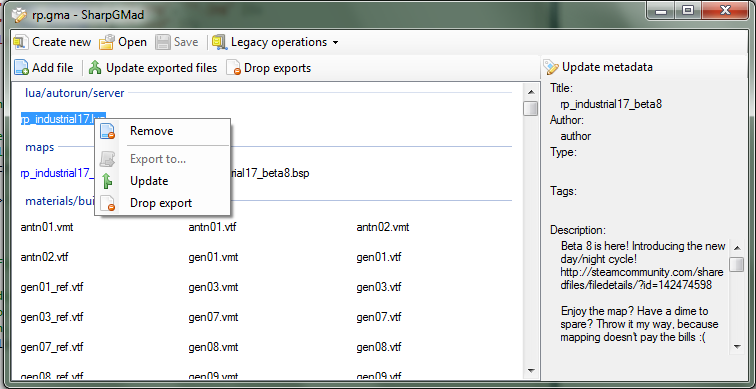
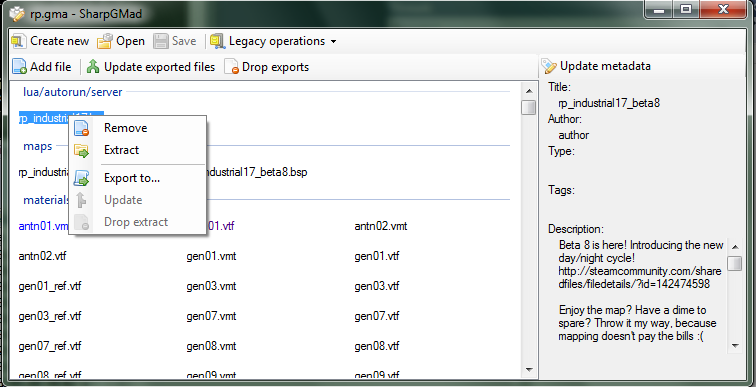
Added file extract (save to local disk but no watcher setup)

diff --git a/SharpGMad/Main.Designer.cs b/SharpGMad/Main.Designer.cs
@@ -63,14 +63,15 @@
             this.tsmiLegacyCreate = new System.Windows.Forms.ToolStripMenuItem();
             this.tsmiLegacyExtract = new System.Windows.Forms.ToolStripMenuItem();
             this.ofdAddFile = new System.Windows.Forms.OpenFileDialog();
-            this.cmsFileEntry = new System.Windows.Forms.ContextMenuStrip(this.components);
+            this.sfdAddon = new System.Windows.Forms.SaveFileDialog();
+            this.sfdExportFile = new System.Windows.Forms.SaveFileDialog();
             this.tsmFileRemove = new System.Windows.Forms.ToolStripMenuItem();
             this.tssExportSeparator = new System.Windows.Forms.ToolStripSeparator();
             this.tsmFileExportTo = new System.Windows.Forms.ToolStripMenuItem();
             this.tsmFilePull = new System.Windows.Forms.ToolStripMenuItem();
             this.tsmFileDropExport = new System.Windows.Forms.ToolStripMenuItem();
-            this.sfdAddon = new System.Windows.Forms.SaveFileDialog();
-            this.sfdExportFile = new System.Windows.Forms.SaveFileDialog();
+            this.cmsFileEntry = new System.Windows.Forms.ContextMenuStrip(this.components);
+            this.tsmFileExtract = new System.Windows.Forms.ToolStripMenuItem();
             this.tsFileOperations.SuspendLayout();
             this.pnlLeftSide.SuspendLayout();
             this.pnlFilelist.SuspendLayout();
@@ -410,57 +411,6 @@
             // 
             this.ofdAddFile.Title = "Add file";
             // 
-            // cmsFileEntry
-            // 
-            this.cmsFileEntry.Items.AddRange(new System.Windows.Forms.ToolStripItem[] {
-            this.tsmFileRemove,
-            this.tssExportSeparator,
-            this.tsmFileExportTo,
-            this.tsmFilePull,
-            this.tsmFileDropExport});
-            this.cmsFileEntry.Name = "cmsFileEntry";
-            this.cmsFileEntry.Size = new System.Drawing.Size(137, 98);
-            // 
-            // tsmFileRemove
-            // 
-            this.tsmFileRemove.Image = global::SharpGMad.Properties.Resources.remove;
-            this.tsmFileRemove.Name = "tsmFileRemove";
-            this.tsmFileRemove.Size = new System.Drawing.Size(136, 22);
-            this.tsmFileRemove.Text = "Remove";
-            this.tsmFileRemove.Click += new System.EventHandler(this.tsmFileRemove_Click);
-            // 
-            // tssExportSeparator
-            // 
-            this.tssExportSeparator.Name = "tssExportSeparator";
-            this.tssExportSeparator.Size = new System.Drawing.Size(133, 6);
-            // 
-            // tsmFileExportTo
-            // 
-            this.tsmFileExportTo.Enabled = false;
-            this.tsmFileExportTo.Image = global::SharpGMad.Properties.Resources.export;
-            this.tsmFileExportTo.Name = "tsmFileExportTo";
-            this.tsmFileExportTo.Size = new System.Drawing.Size(136, 22);
-            this.tsmFileExportTo.Text = "Export to...";
-            this.tsmFileExportTo.Click += new System.EventHandler(this.tsmFileExportTo_Click);
-            // 
-            // tsmFilePull
-            // 
-            this.tsmFilePull.Enabled = false;
-            this.tsmFilePull.Image = global::SharpGMad.Properties.Resources.pull;
-            this.tsmFilePull.Name = "tsmFilePull";
-            this.tsmFilePull.Size = new System.Drawing.Size(136, 22);
-            this.tsmFilePull.Text = "Update";
-            this.tsmFilePull.Click += new System.EventHandler(this.tsmFilePull_Click);
-            // 
-            // tsmFileDropExport
-            // 
-            this.tsmFileDropExport.Enabled = false;
-            this.tsmFileDropExport.Image = global::SharpGMad.Properties.Resources.drop;
-            this.tsmFileDropExport.Name = "tsmFileDropExport";
-            this.tsmFileDropExport.Size = new System.Drawing.Size(136, 22);
-            this.tsmFileDropExport.Text = "Drop export";
-            this.tsmFileDropExport.Click += new System.EventHandler(this.tsmFileDropExport_Click);
-            // 
             // sfdAddon
             // 
             this.sfdAddon.DefaultExt = "gma";
@@ -470,6 +420,72 @@
             // sfdExportFile
             // 
             this.sfdExportFile.Filter = "All files|*.*";
+            // 
+            // tsmFileRemove
+            // 
+            this.tsmFileRemove.Image = global::SharpGMad.Properties.Resources.remove;
+            this.tsmFileRemove.Name = "tsmFileRemove";
+            this.tsmFileRemove.Size = new System.Drawing.Size(138, 22);
+            this.tsmFileRemove.Text = "Remove";
+            this.tsmFileRemove.Click += new System.EventHandler(this.tsmFileRemove_Click);
+            // 
+            // tssExportSeparator
+            // 
+            this.tssExportSeparator.Name = "tssExportSeparator";
+            this.tssExportSeparator.Size = new System.Drawing.Size(135, 6);
+            // 
+            // tsmFileExportTo
+            // 
+            this.tsmFileExportTo.Enabled = false;
+            this.tsmFileExportTo.Image = global::SharpGMad.Properties.Resources.export;
+            this.tsmFileExportTo.Name = "tsmFileExportTo";
+            this.tsmFileExportTo.Size = new System.Drawing.Size(138, 22);
+            this.tsmFileExportTo.Text = "Export to...";
+            this.tsmFileExportTo.ToolTipText = "Export the selected file to somewhere on your computer and set up a realtime chan" +
+    "ge-watch. Changed files will be purple.";
+            this.tsmFileExportTo.Click += new System.EventHandler(this.tsmFileExportTo_Click);
+            // 
+            // tsmFilePull
+            // 
+            this.tsmFilePull.Enabled = false;
+            this.tsmFilePull.Image = global::SharpGMad.Properties.Resources.pull;
+            this.tsmFilePull.Name = "tsmFilePull";
+            this.tsmFilePull.Size = new System.Drawing.Size(138, 22);
+            this.tsmFilePull.Text = "Update";
+            this.tsmFilePull.ToolTipText = "Update this file with the changes from the exported file on your computer";
+            this.tsmFilePull.Click += new System.EventHandler(this.tsmFilePull_Click);
+            // 
+            // tsmFileDropExport
+            // 
+            this.tsmFileDropExport.Enabled = false;
+            this.tsmFileDropExport.Image = global::SharpGMad.Properties.Resources.drop;
+            this.tsmFileDropExport.Name = "tsmFileDropExport";
+            this.tsmFileDropExport.Size = new System.Drawing.Size(138, 22);
+            this.tsmFileDropExport.Text = "Drop extract";
+            this.tsmFileDropExport.ToolTipText = "Delete the exported file from your computer";
+            this.tsmFileDropExport.Click += new System.EventHandler(this.tsmFileDropExport_Click);
+            // 
+            // cmsFileEntry
+            // 
+            this.cmsFileEntry.Items.AddRange(new System.Windows.Forms.ToolStripItem[] {
+            this.tsmFileRemove,
+            this.tsmFileExtract,
+            this.tssExportSeparator,
+            this.tsmFileExportTo,
+            this.tsmFilePull,
+            this.tsmFileDropExport});
+            this.cmsFileEntry.Name = "cmsFileEntry";
+            this.cmsFileEntry.Size = new System.Drawing.Size(139, 120);
+            // 
+            // tsmFileExtract
+            // 
+            this.tsmFileExtract.Enabled = false;
+            this.tsmFileExtract.Image = global::SharpGMad.Properties.Resources.extract;
+            this.tsmFileExtract.Name = "tsmFileExtract";
+            this.tsmFileExtract.Size = new System.Drawing.Size(138, 22);
+            this.tsmFileExtract.Text = "Extract";
+            this.tsmFileExtract.ToolTipText = "Save the selected file somewhere on your computer";
+            this.tsmFileExtract.Click += new System.EventHandler(this.tsmFileExtract_Click);
             // 
             // Main
             // 
@@ -535,17 +551,18 @@
         private System.Windows.Forms.ToolStrip tsMetadata;
         private System.Windows.Forms.ToolStripButton tsbUpdateMetadata;
         private System.Windows.Forms.OpenFileDialog ofdAddFile;
-        private System.Windows.Forms.ContextMenuStrip cmsFileEntry;
-        private System.Windows.Forms.ToolStripMenuItem tsmFileRemove;
         private System.Windows.Forms.SaveFileDialog sfdAddon;
         private System.Windows.Forms.ToolStripButton tsbPullAll;
+        private System.Windows.Forms.SaveFileDialog sfdExportFile;
+        private System.Windows.Forms.ToolStripSeparator tssExportHeaderSeparator;
+        private System.Windows.Forms.ToolStripButton tsbDropAll;
+        private System.Windows.Forms.ToolStripMenuItem tsmFileRemove;
         private System.Windows.Forms.ToolStripSeparator tssExportSeparator;
         private System.Windows.Forms.ToolStripMenuItem tsmFileExportTo;
         private System.Windows.Forms.ToolStripMenuItem tsmFilePull;
         private System.Windows.Forms.ToolStripMenuItem tsmFileDropExport;
-        private System.Windows.Forms.SaveFileDialog sfdExportFile;
-        private System.Windows.Forms.ToolStripSeparator tssExportHeaderSeparator;
-        private System.Windows.Forms.ToolStripButton tsbDropAll;
+        private System.Windows.Forms.ContextMenuStrip cmsFileEntry;
+        private System.Windows.Forms.ToolStripMenuItem tsmFileExtract;
 
 
 

diff --git a/SharpGMad/RealtimeCommandline.cs b/SharpGMad/RealtimeCommandline.cs
@@ -172,6 +172,30 @@ namespace SharpGMad
                         }
 
                         break;
+                    case "extract":
+                        string extractPath = String.Empty;
+                        try
+                        {
+                            extractPath = command[2];
+                        }
+                        catch (IndexOutOfRangeException)
+                        {
+                            // Noop.
+                        }
+
+                        try
+                        {
+                            ExtractFile(command[1], extractPath);
+                        }
+                        catch (IndexOutOfRangeException)
+                        {
+                            Console.ForegroundColor = ConsoleColor.Red;
+                            Console.WriteLine("The filename was not specified.");
+                            Console.ResetColor();
+                            break;
+                        }
+
+                        break;
                     case "export":
                         string exportPath = String.Empty;
                         try
@@ -478,6 +502,7 @@ namespace SharpGMad
                             Console.WriteLine("addfolder <folder>         Adds all files from <folder> to the archive");
                             Console.WriteLine("list                       Lists the files in the memory");
                             Console.WriteLine("remove <filename>          Removes <filename> from the archive");
+                            Console.WriteLine("extract <filename> [path]  Extract <filename> (to [path] if specified)");
                             Console.WriteLine("export                     View the list of exported files");
                             Console.WriteLine("export <filename> [path]   Export <filename> for editing (to [path] if specified)");
                             Console.WriteLine("pull                       Pull changes from all exported files");
@@ -1002,6 +1027,74 @@ namespace SharpGMad
                 Console.ResetColor();
                 return;
             }
+        }
+
+        /// <summary>
+        /// Extract a file from the addon to a specified path on the local file system.
+        /// Unlike ExportFile(), this does not set up a watch.
+        /// </summary>
+        /// <param name="filename">The path of the file in the addon to be exported.</param>
+        /// <param name="extractPath">Optional. The path on the local file system where the file should be saved.
+        /// If omitted, the file will be exported to the current working directory.</param>
+        static void ExtractFile(string filename, string extractPath = null)
+        {
+            if (addon == null)
+            {
+                Console.ForegroundColor = ConsoleColor.Red;
+                Console.WriteLine("No addon is open.");
+                Console.ResetColor();
+                return;
+            }
+
+            IEnumerable<ContentFile> file = addon.Files.Where(f => f.Path == filename);
+
+            if (file.Count() == 0)
+            {
+                Console.ForegroundColor = ConsoleColor.Red;
+                Console.WriteLine("The specified file does not exist in the archive.");
+                Console.ResetColor();
+                return;
+            }
+
+            if (extractPath == null || extractPath == String.Empty)
+            {
+                extractPath = Directory.GetCurrentDirectory() + Path.DirectorySeparatorChar + Path.GetFileName(filename);
+            }
+            else
+            {
+                extractPath = Directory.GetCurrentDirectory() + Path.DirectorySeparatorChar + Path.GetFileName(extractPath);
+            }
+
+            if (File.Exists(extractPath))
+            {
+                Console.ForegroundColor = ConsoleColor.Red;
+                Console.WriteLine("A file at " + extractPath + " already exists. Aborting extraction!");
+                Console.ResetColor();
+                return;
+            }
+
+            FileStream extract;
+            try
+            {
+                extract = new FileStream(extractPath, FileMode.OpenOrCreate, FileAccess.ReadWrite, FileShare.ReadWrite);
+            }
+            catch (Exception e)
+            {
+                Console.ForegroundColor = ConsoleColor.Red;
+                Console.WriteLine("There was a problem exporting the file.");
+                Console.ResetColor();
+                Console.WriteLine(e.Message);
+                return;
+            }
+            extract.SetLength(0); // Truncate the file.
+            extract.Write(file.First().Content, 0, (int)file.First().Size);
+            extract.Flush();
+
+            Console.ForegroundColor = ConsoleColor.Green;
+            Console.WriteLine("Written " + ((int)extract.Length).HumanReadableSize() + " to " + extractPath + ".");
+            Console.ResetColor();
+
+            extract.Dispose();
         }
 
         /// <summary>

diff --git a/SharpGMad/Main.cs b/SharpGMad/Main.cs
@@ -360,10 +360,12 @@ namespace SharpGMad
                 tsmFileExportTo.Enabled = false;
                 tsmFilePull.Enabled = false;
                 tsmFileDropExport.Enabled = false;
+                tsmFileExtract.Enabled = false;
             }
             else
             {
                 tsmFileRemove.Enabled = true;
+                tsmFileExtract.Enabled = true;
 
                 IEnumerable<FileWatch> isExported = watches.Where(f => f.ContentPath ==
                     lstFiles.FocusedItem.Group.Header + "/" + lstFiles.FocusedItem.Text);
@@ -538,7 +540,7 @@ namespace SharpGMad
                 IEnumerable<FileWatch> isExported = watches.Where(f => f.ContentPath == contentPath);
                 if (isExported.Count() != 0)
                 {
-                    MessageBox.Show("This file is already exported. Drop the export first!", "Export file",
+                    MessageBox.Show("This file is already exported. Drop the extract first!", "Export file",
                         MessageBoxButtons.OK, MessageBoxIcon.Stop);
                     return;
                 }
@@ -674,7 +676,7 @@ namespace SharpGMad
 
                 if (search.Count() == 0)
                 {
-                    MessageBox.Show("This file is not exported!", "Drop export",
+                    MessageBox.Show("This file is not exported!", "Drop extract",
                         MessageBoxButtons.OK, MessageBoxIcon.Stop);
                     return;
                 }
@@ -688,7 +690,7 @@ namespace SharpGMad
                 catch (Exception ex)
                 {
                     MessageBox.Show("Failed to delete the exported file:" +
-                        "\n" + search.First().FilePath + ".\n\n" + ex.Message, "Drop export",
+                        "\n" + search.First().FilePath + ".\n\n" + ex.Message, "Drop extract",
                         MessageBoxButtons.OK, MessageBoxIcon.Exclamation);
                 }
 
@@ -810,6 +812,45 @@ namespace SharpGMad
             SetModified(true);
 
             UpdateFileList();
+        }
+
+        private void tsmFileExtract_Click(object sender, EventArgs e)
+        {
+            if (lstFiles.FocusedItem != null)
+            {
+                string contentPath = lstFiles.FocusedItem.Group.Header + "/" + lstFiles.FocusedItem.Text;
+
+                sfdExportFile.FileName = Path.GetFileName(lstFiles.FocusedItem.Text);
+                sfdExportFile.DefaultExt = Path.GetExtension(lstFiles.FocusedItem.Text);
+                sfdExportFile.Title = "Extract " + Path.GetFileName(lstFiles.FocusedItem.Text) + " to...";
+
+                DialogResult save = sfdExportFile.ShowDialog();
+
+                if (save == DialogResult.OK)
+                {
+                    string extractPath = sfdExportFile.FileName;
+                    
+                    IEnumerable<ContentFile> file = addon.Files.Where(f => f.Path == contentPath);
+
+                    FileStream export;
+                    try
+                    {
+                        export = new FileStream(extractPath, FileMode.OpenOrCreate, FileAccess.ReadWrite, FileShare.ReadWrite);
+                    }
+                    catch (Exception)
+                    {
+                        MessageBox.Show("There was a problem opening the file.", "Extract file",
+                            MessageBoxButtons.OK, MessageBoxIcon.Stop);
+                        return;
+                    }
+                    export.SetLength(0); // Truncate the file.
+                    export.Write(file.First().Content, 0, (int)file.First().Size);
+                    export.Flush();
+                    export.Dispose();
+                }
+
+                sfdExportFile.Reset();
+            }
         }
     }
 }

diff --git a/README.md b/README.md
@@ -97,10 +97,13 @@ saving
  * **Console only!** `addfolder <folder>`: Add all files from `<folder>`
  * `list`: List the files currently added
  * `remove <filename>`: Remove `<filename>`
+ * `extract <filename> [path]`: Extract `<filename>` to the current folder
+(or to `[path]` if specified). Unlike `export`, a plain `extract` does not
+set up a realtime change watch.
 * _Exporting and pulling changes_
  * **Console only!** `export`: List all currently handled exports
- * `export <filename> [path]`: Export `<filename>` to the current folder
-(or to `[path]` if specified)
+ * `export <filename> [path]`: Export `<filename>` for editing to the
+current folder (or to `[path]` if specified)
  * `pull`: Pull all changes from all exported files
  * `pull <filename>`: Pull changes of `<filename>` (the parameter
 indicates the path of the file **within** the addon, not the path of the
